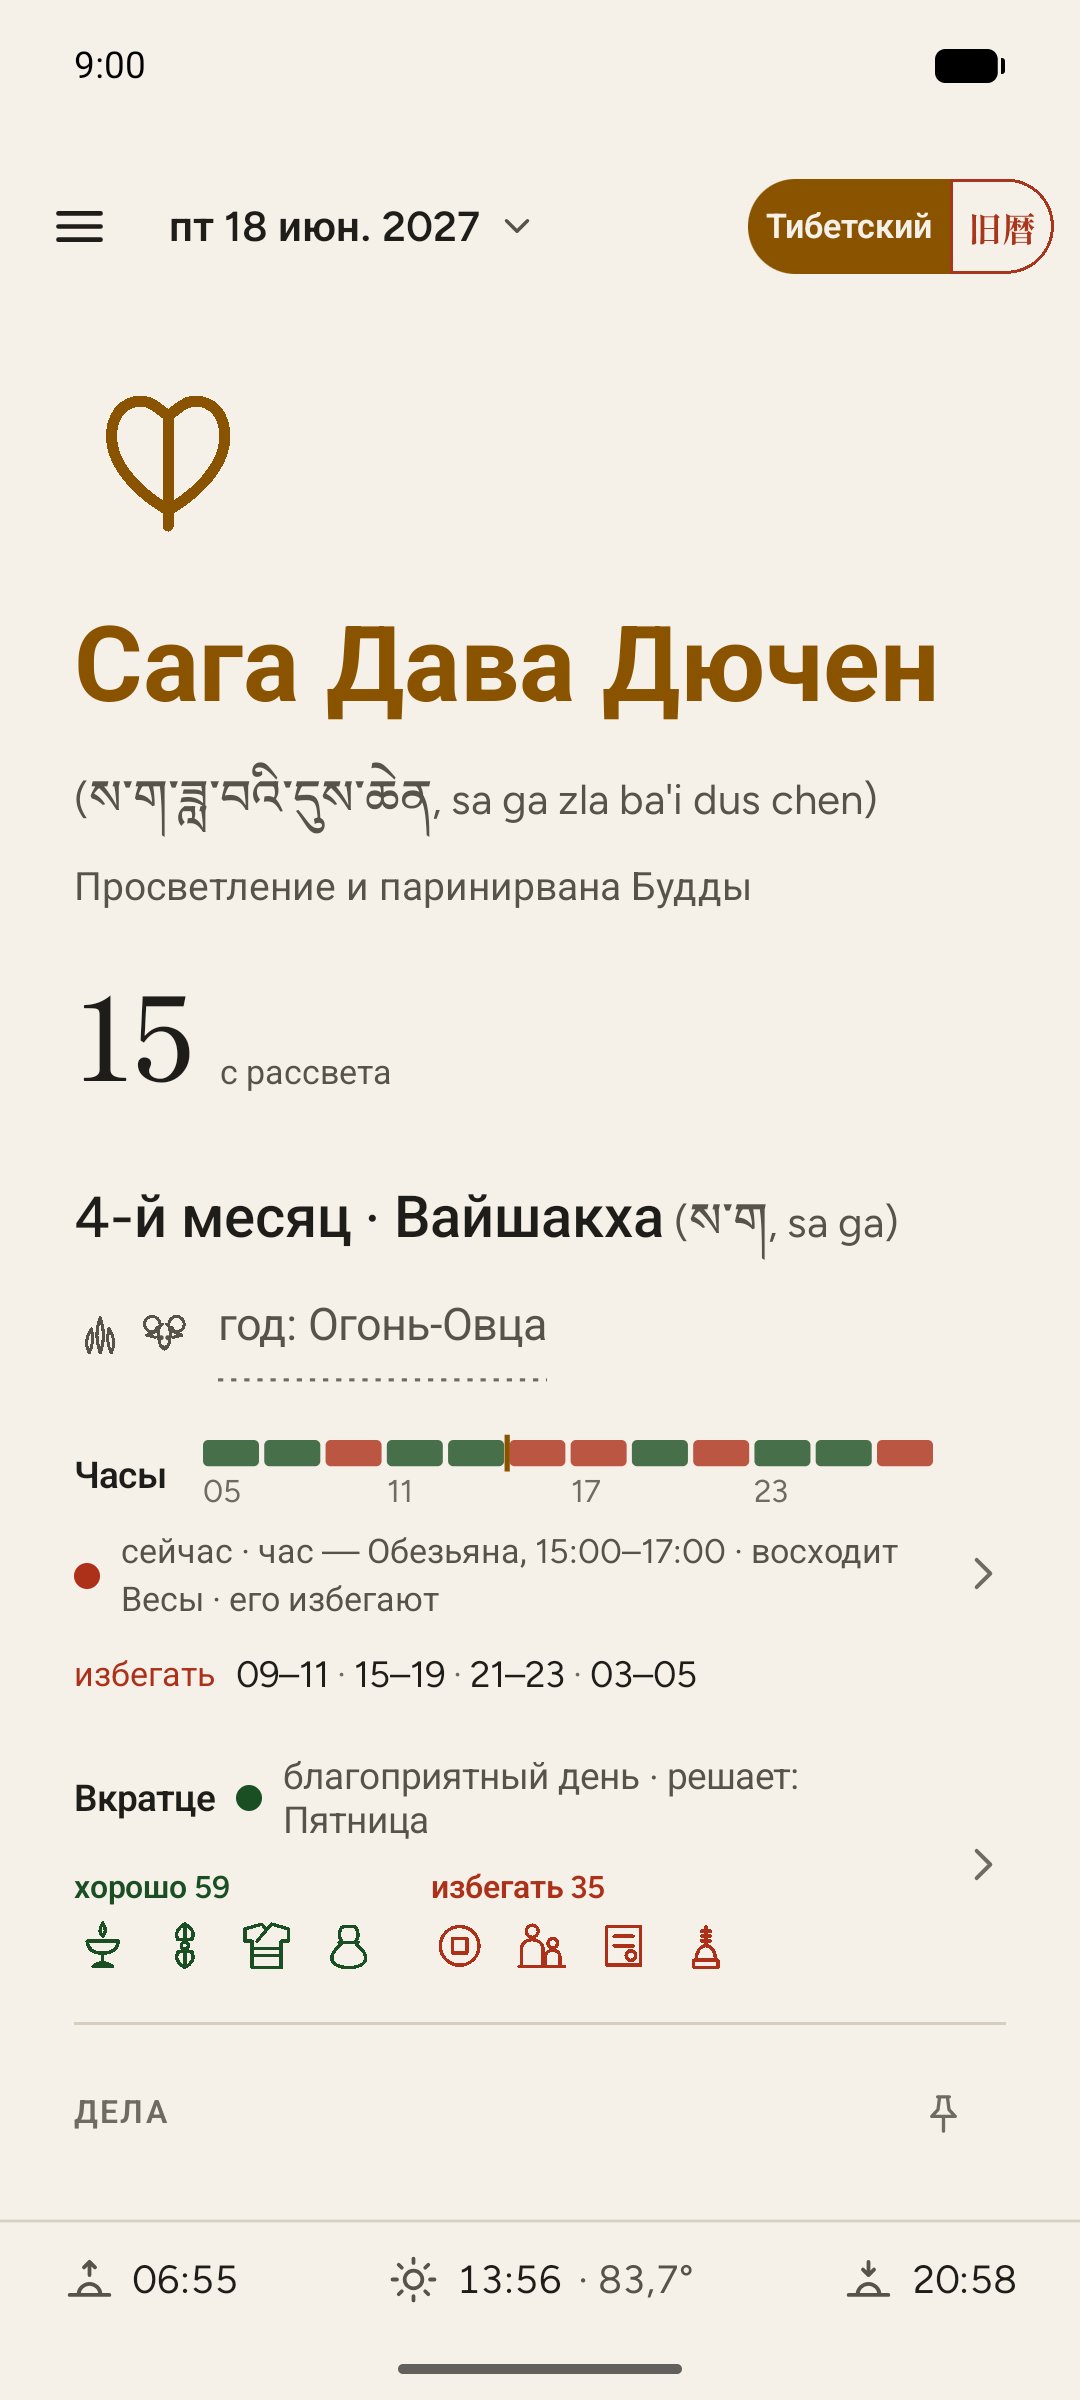
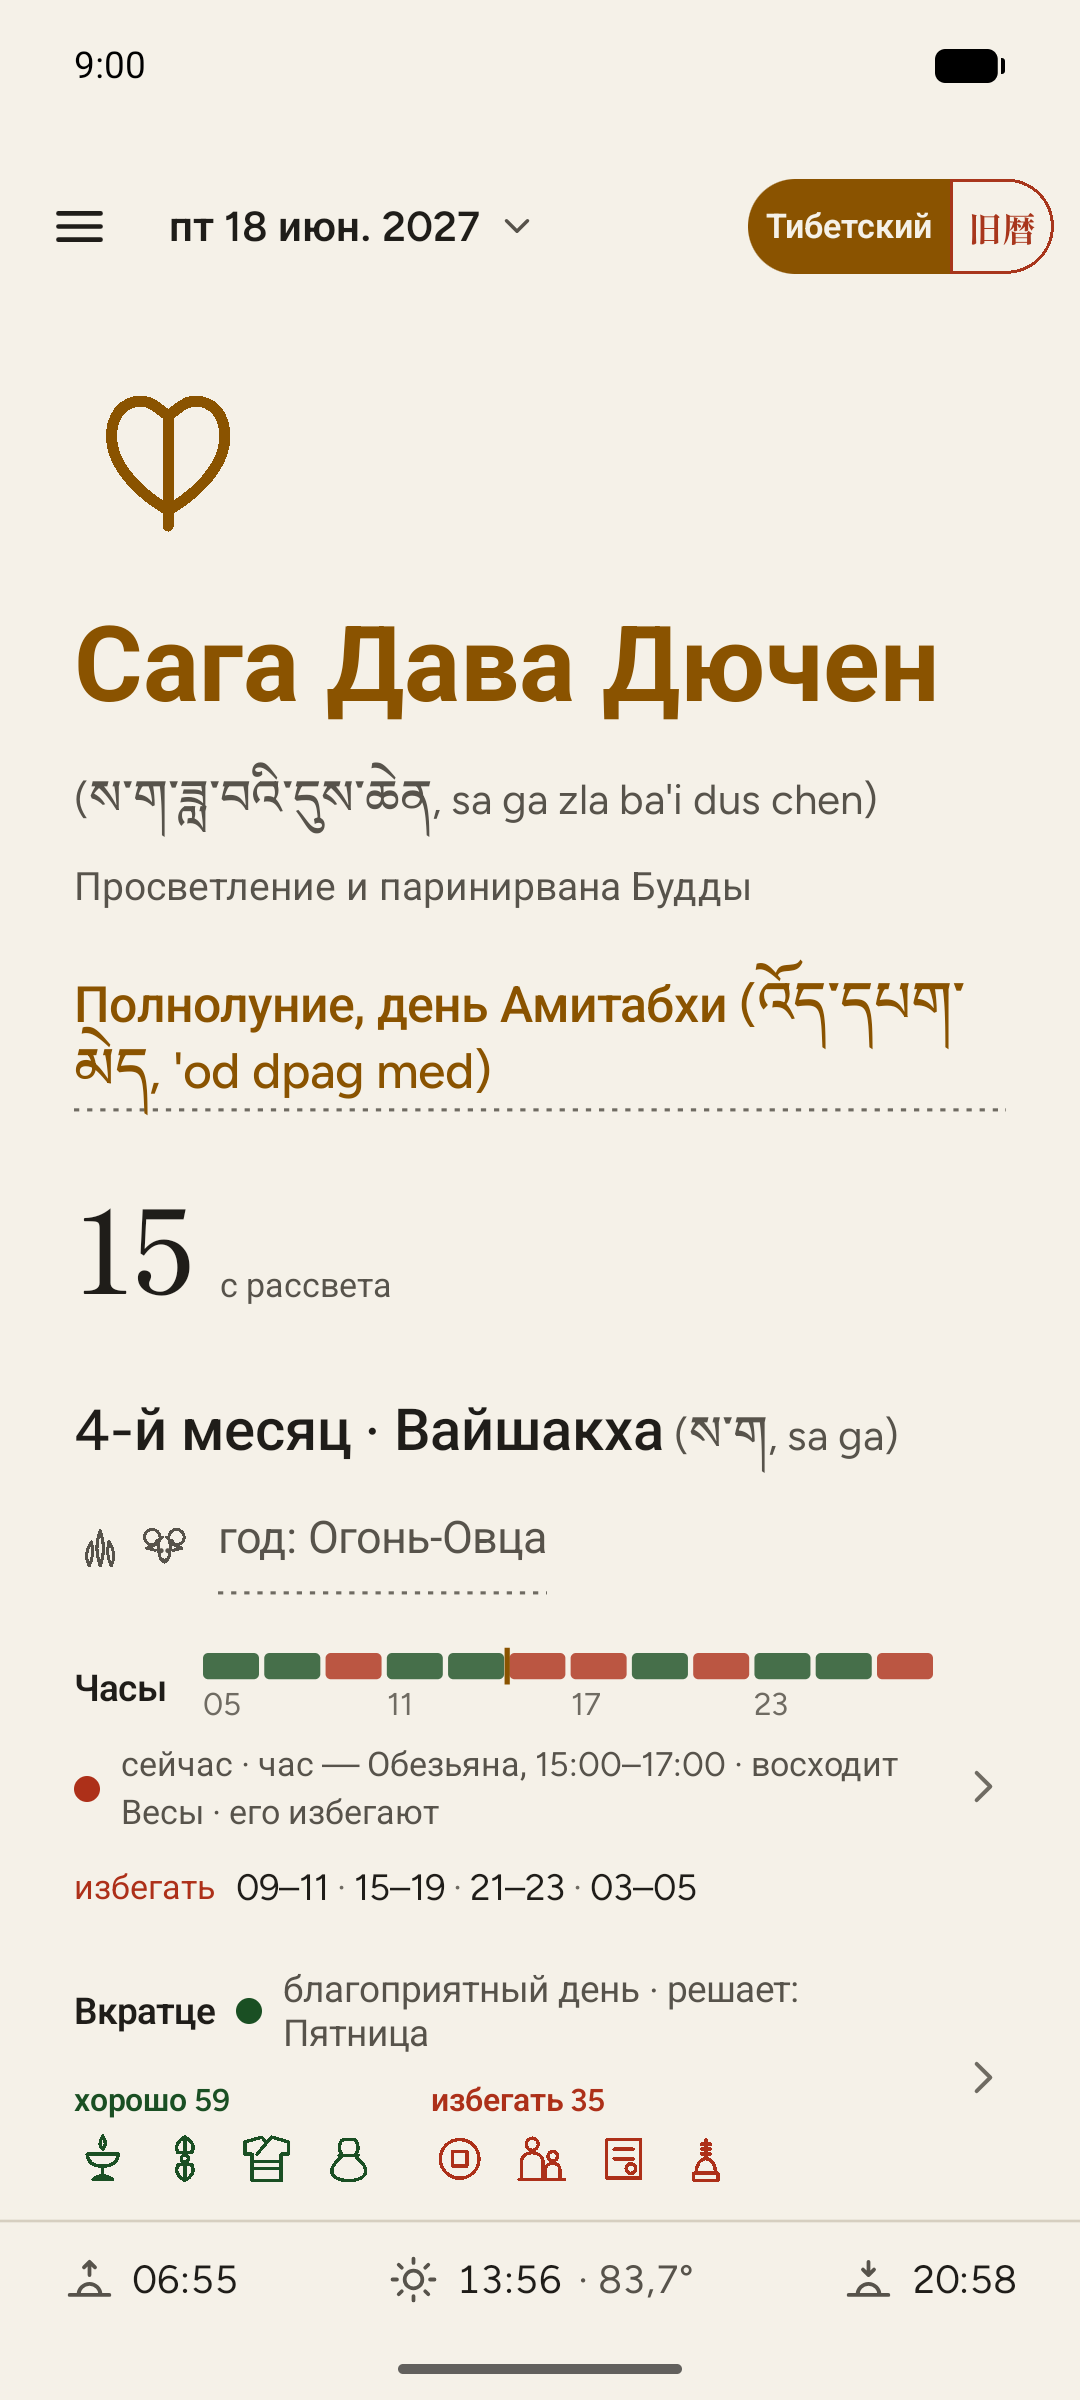
docs: the practice days in SPEC, ROADMAP T6, README, listings and shots
SPEC 5.8's row becomes the practice days with their sources and placement,
10.3 describes the ornament and the balloon, 8.1 admits the Practice row.
ROADMAP T6 records the request, what was built and what is left open (the
11th and 26th, q1261's order, the small days' practice resting on the
verse's frame). The listings in both languages name the practice days; shots
1, 3 and 8 are retaken, as Saga Dawa now carries the full moon's line.

diff --git a/docs/SPEC.md b/docs/SPEC.md
@@ -234,7 +234,7 @@ day by day against Henning's computed calendars (§9):
 | Lunar-day animal, trigram, number | Janson (E.9)–(E.11); the first date's trigram by the month's animal and its sme ba by the season (1 white, 4 green, 7 in the first, middle and last months of the Chinese reckoning's seasons) as the White Beryl's almanac verse gives them, vol. 1, p. 178 (`AlmanacPageTest`, [sources/almanac-page.md](sources/almanac-page.md)) |
 | Hair-cutting day | by lunar day, from Lama Zopa Rinpoche's translation (FPMT, 2008); FPMT's list, not the White Beryl's, which gives no haircut results by date (ROADMAP T2.15); the sheet opens on the result and whether the date goes well or badly for a haircut, sixteen good, fourteen to avoid (X10) |
 | Washing the hair | the White Beryl's thirty hair dates (vol. 2, p. 404): what washing the hair on each date brings, a detail of the lunar date's reading; the good and bad dates that follow them are the list of KP box 37, whose worn bad line they fill (the 27th on neither side; `ElectionalTest`, [sources/hair-dates.md](sources/hair-dates.md)) |
-| Monthly observances | 8th, 10th, 15th (Sojong), 25th, 30th (Sojong), after Edition Rabten |
+| Practice days | the six times of the month in the note of the Larung print of Longchenpa's commentary on the Guhyagarbha (p. 568, note 1035): the 8th, 10th, 15th, 25th, 29th and the new moon; and, as the small days of the Dharma protectors (the owner's choice, 2026-11-17), the 9th and 24th, when Palden Lhamo roams with her retinue in Karma chags med's verse, which also lists the 11th and 26th (*Ri chos*, pp. 286–288; question q1263). Each day's reading names who comes or roams on it after the same verse (8th the Medicine Buddha with White Tārā; 10th Guru Rinpoche, at sunrise; 15th Amitābha; 25th the ḍākinīs with Guru Rinpoche; 29th the protectors, with the new moon; the new moon Śākyamuni), the hundred thousandfold of the 8th, 15th, 29th and new moon (the 8th, 14th and 15th of each half), and a practice row from the Nyingma authors read: the one-day vow, offerings and freeing lives on the 8th, full and new moon (Lo chen Dharma shrI; the freeing of lives, Thub bstan chos kyi grags pa); the feast, the Seven-Line Prayer and the guru's sādhana on the 10th, by day; the feast and the tutelary deity or ḍākinī on the 25th, by night (Dpal sprul, Zhe chen rgyal tshab); the fulfilment offering on the 29th (Zhe chen rgyal tshab); an offering to Palden Lhamo on the small days ([sources/festivals.md](sources/festivals.md) and the practice-days claims). Kept in leap months too; a doubled date's on its first day, a skipped date's on the day it ends in, as the festivals are, a major day before a minor one there (so the 29th is lost when the new moon is skipped into its day) |
 | Personal day | luck, life or anti weekday for the animal of the birth year (Rabten's table), which are WB vol. 2, p. 330's la, life-force and slayer weekdays (*bla gza'*, *srog gza'*, *gshed gza'*), all 36 alike ([sources/personal-mansions.md](sources/personal-mansions.md)); the readings join Rabten's words to p. 330's (the la weekday's activities at its strong time, the life-force weekday virtuous, the slayer weekday avoided, and forceful rites quick when one's slayer weekday is strong and an enemy's la weekday weak; ROADMAP X8); needs a birth date (§10.5) |
 | Personal mansions | whether the day's mansion is one of the six of the birth-year animal (bla, srog, dbang, skeg, bdud, gshed skar): the White Beryl, vol. 2, p. 330 (1996), its slips settled by the Sakya *nor bu'i me long* (p. 64) and Nam mkha' seng ge's *skar yig*, which print the same table ([sources/personal-mansions.md](sources/personal-mansions.md)); bla, srog and dbang skar lucky, the other three unlucky, as both texts call them; needs a birth date |
 | Own days by the birth date | WB vol. 2, p. 338 (`ownDays`, ROADMAP T2.19): the birth weekday (the weekday of the birth date, p. 379); the weekday's place among the five of one's element, counted from the birth year's life force (*srog*), which p. 330 says is reckoned as the clan's element is: own (*rang gza'*, WB's *bla* and *dbang gza'* too, not the birth animal's *bla gza'*), mother, friend, child, enemy by the elements' relations, as the table of p. 346 gives them (`elementWeekday`), the weekdays' elements those of the *nag rtsis* (vol. 1, p. 257: Sun and Mars fire, Moon and Mercury water, Jupiter wood, Venus iron, Saturn earth); and the birth mansion, the almanac's mansion of the birth date (Phug pa Lhun grub rgya mtsho's coarse reckoning; no hour is asked). Birth and own weekday lucky with p. 338's works (battle array, contests of skill, pleading a case, trade, trials of strength, dice, horse races, archery, works that stir up strife); mother and friend lucky, anything good (p. 330); child no dot, middling (p. 330); enemy unlucky, every work avoided (p. 338); birth mansion lucky with p. 338's works. The mansion of conception (no source defines it) is not built ([sources/personal-mansions.md](sources/personal-mansions.md)); needs a birth date |
@@ -2503,7 +2503,7 @@ voices, so that the tone and the lists cannot go separate ways.
   Kashmiri paṇḍita's, which the White Beryl sets aside for that order (vol.
   2, p. 376), so the app does not use them. Outweighed voices,
   and works that only outweighed voices name, are not shown: they have no
-  power on the day, and their own readings still say what they say. On a festival or monthly observance the brief
+  power on the day, and their own readings still say what they say. On a festival or practice day the brief
   says that the tone is the day's for its works and does not weigh the
   festival's merit: the texts give no rule placing a festival in the
   weighing.
@@ -2513,7 +2513,7 @@ voices, so that the tone and the lists cannot go separate ways.
   a "Hours" row above the brief; then the day in brief; then "Works", the
   verdicts on single works (the works pinned and the haircut), which are
   results of the weighing and not voices in it; then the Almanac section, which holds
-  what is weighed, after the monthly observance: the voices in rank order
+  what is weighed: the voices in rank order
   (the combination, Rāhu, weekday, mansion, special days, lunar date,
   karaṇa, yoga), each voice one row, so that the named combination and
   the element pair are one "Combination" row with both dots, as the
@@ -3320,7 +3320,7 @@ the same way.
    condition ("except on Thursday"). The paragraph never lists works that
    the sheet's lists repeat under it, and never explains a mechanism.
 3. **Every other fact is a row**, a label and a value, in this order and
-   with these labels and no others: *Also called* · *Strong when* ·
+   with these labels and no others: *Also called* · *Practice* (a practice day's, §5.8) · *Strong when* ·
    *Avoid its start* · *Setting out* · *Rank* · *Remedy* · *Spirits that
    harm* · *Illness* · *Rites* · *La today* · *A birth today* · *A death
    today* · *Livestock* · *Planet* · *Foods* · *Through the day* · *How
@@ -3811,6 +3811,20 @@ canvas "Zanshin Calendar — basic design".
 
 - **Headline:** the day number, with the month under it. On a holiday, the
   holiday's name and glyph take the headline and the date moves under it.
+- **Practice day** (§5.8; the owner, 2026-11-17): on the 8th, 10th, 15th,
+  25th, 29th and 30th the day number stands in an ornament, as a buddha's
+  image does: an aureole round it, a lotus seat bearing a moon disc under
+  it and an emblem at its crown. The aureole is rays and pearls for the
+  buddhas' days (8th, 15th, 30th), three rainbow bands for the guru's and
+  the ḍākinīs' (10th, 25th), a wreath of flames for the protectors' (29th);
+  the crown a wish-fulfilling jewel, a full moon on the 15th, a dark moon on
+  the 30th; saffron for the buddhas and the guru, vermilion for the ḍākinīs
+  and the protectors. The small days of the protectors (9th, 24th) have a
+  lighter wreath of flames and no seat or crown. Under the number the
+  day's name in its colour ("Day of the Medicine Buddha") opens a balloon
+  with the day's reading and its *Practice* and *Strong when* rows; a
+  skipped date's day kept today says "moved from day N". On a festival the
+  name stands under the festival's, without the ornament.
 - **Month:** number plus Tibetan name — "4th month · sa ga". Tapping it opens
   a balloon with the other names: Sanskrit lunar mansion, animal name
   (Janson Table 4), and its two seasons, each labelled, as WB's model
@@ -3986,9 +4000,9 @@ canvas "Zanshin Calendar — basic design".
   always holds it. The pins are kept on the device across days and
   restarts (`pinned_works`, the works' names), none on a fresh install, so
   the store screenshots show the section as before but for its pin.
-- **Almanac:** what is weighed (§5.12, *Order on the page*). The monthly
-  observance; the festival is the headline and opens its reading from
-  there, so the Almanac does not repeat it. On the day of an eclipse
+- **Almanac:** what is weighed (§5.12, *Order on the page*). The festival
+  and the practice day are the headline and open their readings from
+  there, so the Almanac does not repeat them. On the day of an eclipse
   (§5.11) a "Lunar eclipse" or "Solar eclipse" row follows, neutral, its
   subtitle WB's multiplied merit, opening its reading. Then the day's voices in the
   rank of §5.12, one row each: the combination, Rāhu, weekday (§5.11),

diff --git a/docs/ROADMAP.md b/docs/ROADMAP.md
@@ -2432,6 +2432,34 @@ the device; a person saved before reads as not set, and while it is not
 set the readings that need it are hidden, with a note that says so. Only
 the year of age reads it (its trigram and progressed sign).
 
+### <a id="t6"></a>T6. The practice days, ornamented — built 2026-11-17 (SPEC §5.8, §8.1, §10.3)
+
+The owner's request of 2026-11-17: "beautiful ornate decorations and a
+practice recommendation balloon on the 8, 10, 15, 25, 29 and 30 lunar days,
+and the 9 and 24 as small days of the Dharma protectors", after the
+practice-days investigation of 2026-11-16 (festivals.md, the claims
+`month-days-buddhas-and-deities`, `six-times-of-the-month-in-the-larung-note`,
+`monthly-days-in-the-rigpa-calendar-against-rabten` and the rest of its
+list). Edition Rabten's five monthly observances became eight practice
+days: the Larung note's six times, with the 29th, and the owner's two small
+days, which are the Palden Lhamo days of Karma chags med's verse (its note
+also names the 11th and 26th, not taken; q1263 stays open on the note).
+
+- **Built.** `SpecialDay` with NINTH, TWENTY_FOURTH (minor) and
+  TWENTY_NINTH; a skipped date's day kept on the day it ends in and a
+  doubled date's on its first, as the festivals (`PracticeDayTest`, 2020–2040:
+  every major day once a month but the 29th when the new moon is skipped
+  into its day). The readings rewritten from the pool: who comes or roams,
+  the hundred thousandfold, a new *Practice* row and *Strong when* for the
+  tenths, English and Russian. The page: the day number in an aureole on a
+  lotus seat with a crown (`PracticeDay.kt`), the day's name under it
+  opening a balloon with the reading and its rows; the Almanac's
+  observance row dropped, as the headline holds it.
+- **Left open.** Whether the 11th and 26th join the small days; the order
+  of Amitābha and Śākyamuni on the 15th and the new moon (q1261, RCZ's
+  kept); the practice on the small days rests on the verse's frame (an
+  offering while the deity roams), no text names one for them.
+
 ### <a id="m1"></a>M1. Meditation timer and periodic bell — built 2026-10-09 (SPEC §10.5, §10.9)
 
 Mind Bell's functions on a screen of its own, opened from the menu's new

diff --git a/README.md b/README.md
@@ -4,7 +4,7 @@ An offline Android app that shows one day at a time in the Tibetan calendar
 (Phugpa) or the old Japanese calendar (旧暦, Tenpō rules), with the almanac
 readings of that day and sunrise, solar noon and sunset for your place.
 
-<img src="fastlane/metadata/android/en-US/images/phoneScreenshots/1.png" width="220" alt="Tibetan day: Saga Dawa Düchen">
+<img src="fastlane/metadata/android/en-US/images/phoneScreenshots/1.png" width="220" alt="Tibetan day: Saga Dawa Düchen, the full moon's day of Amitābha">
 <img src="fastlane/metadata/android/en-US/images/phoneScreenshots/2.png" width="220" alt="Japanese day: 十三夜">
 <img src="fastlane/metadata/android/en-US/images/phoneScreenshots/4.png" width="220" alt="Japanese almanac annotations">
 <img src="fastlane/metadata/android/en-US/images/phoneScreenshots/6.png" width="220" alt="Meditation timer: a zazen of 20, 10 and 30 minutes">
@@ -12,7 +12,10 @@ readings of that day and sunrise, solar noon and sunset for your place.
 <img src="fastlane/metadata/android/en-US/images/phoneScreenshots/11.png" width="220" alt="A dream read: each tradition's verdict on riding upward, a pit and the sun rising">
 
 - **Tibetan:** lunar day, month and year with skipped and doubled days and
-  leap months; festivals and monthly observances; lunar mansion, yoga,
+  leap months; festivals; the month's practice days (the 8th, 10th, 15th,
+  25th, 29th and new moon, and the 9th and 24th as small days of the
+  Dharma protectors) in an ornament of their own, each naming who comes
+  and what to practise; lunar mansion, yoga,
   karaṇa, element pair, lunar-day animal, trigram and number, each with its
   reading from the White Beryl and the *kun phan me long*; what changes
   within the day as the White Beryl's almanac writes it: a second mansion,
